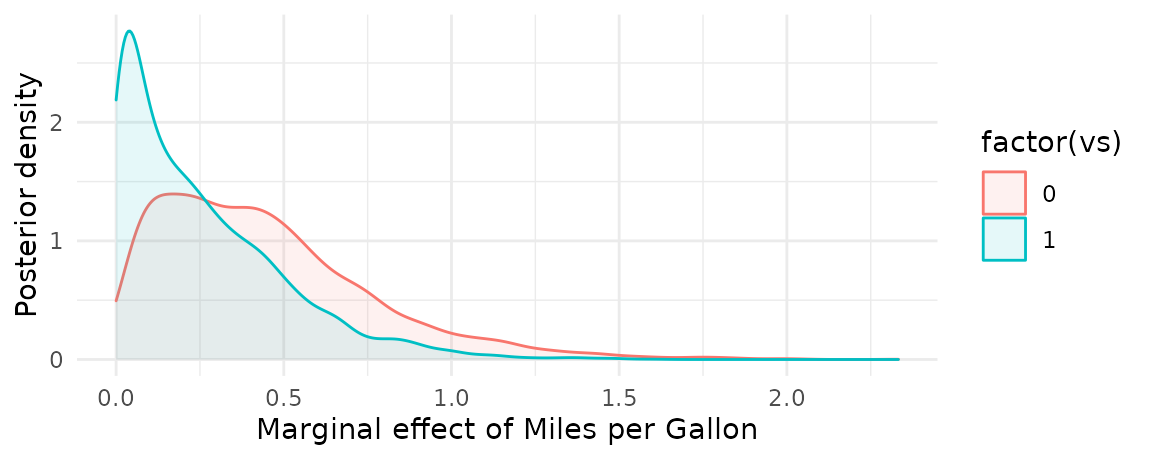
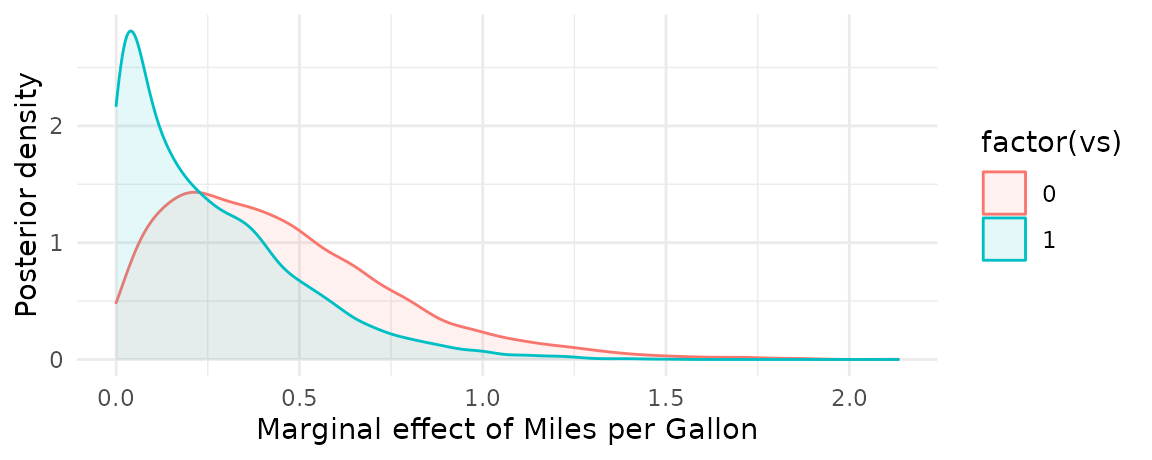
Built site for marginaleffects: 0.2.0@227eddc

diff --git a/articles/brms.html b/articles/brms.html
@@ -102,9 +102,9 @@
 <span class="fu"><a href="https://rdrr.io/r/base/summary.html">summary</a></span><span class="op">(</span><span class="va">mfx</span><span class="op">)</span>
 <span class="co">#&gt; Average marginal effects </span>
 <span class="co">#&gt;       type Term    Effect</span>
-<span class="co">#&gt; 1 response   hp  0.009225</span>
-<span class="co">#&gt; 2 response  mpg  0.196360</span>
-<span class="co">#&gt; 3 response   vs -0.136312</span>
+<span class="co">#&gt; 1 response   hp  0.009125</span>
+<span class="co">#&gt; 2 response  mpg  0.192785</span>
+<span class="co">#&gt; 3 response   vs -0.133986</span>
 <span class="co">#&gt; </span>
 <span class="co">#&gt; Model type:  brmsfit </span>
 <span class="co">#&gt; Prediction type:  response</span></code></pre></div>
@@ -112,19 +112,19 @@
 <div class="sourceCode" id="cb5"><pre class="downlit sourceCode r">
 <code class="sourceCode R"><span class="fu"><a href="../reference/marginaleffects.html">marginaleffects</a></span><span class="op">(</span><span class="va">mod</span>, newdata <span class="op">=</span> <span class="fu"><a href="../reference/typical.html">typical</a></span><span class="op">(</span>hp <span class="op">=</span> <span class="fu"><a href="https://rdrr.io/r/base/c.html">c</a></span><span class="op">(</span><span class="fl">110</span>, <span class="fl">130</span><span class="op">)</span><span class="op">)</span><span class="op">)</span>
 <span class="co">#&gt;   rowid     type term         dydx      conf.low  conf.high      mpg     vs  hp</span>
-<span class="co">#&gt; 1     1 response   hp  0.005204473  1.259520e-06 0.01672067 20.09062 0.4375 110</span>
-<span class="co">#&gt; 2     2 response   hp  0.029294532  9.118496e-04 0.06118583 20.09062 0.4375 130</span>
-<span class="co">#&gt; 3     1 response  mpg  0.128558864  2.776134e-05 0.42924493 20.09062 0.4375 110</span>
-<span class="co">#&gt; 4     2 response  mpg  0.679874606  4.953109e-02 1.36425386 20.09062 0.4375 130</span>
-<span class="co">#&gt; 5     1 response   vs -0.056686607 -4.867765e-01 0.24646229 20.09062 0.4375 110</span>
-<span class="co">#&gt; 6     2 response   vs -0.039588895 -1.001689e+00 1.02658699 20.09062 0.4375 130</span>
+<span class="co">#&gt; 1     1 response   hp  0.005295315  1.945335e-08 0.01596423 20.09062 0.4375 110</span>
+<span class="co">#&gt; 2     2 response   hp  0.028911995  7.582197e-04 0.05804486 20.09062 0.4375 130</span>
+<span class="co">#&gt; 3     1 response  mpg  0.128929237  4.428537e-07 0.39480654 20.09062 0.4375 110</span>
+<span class="co">#&gt; 4     2 response  mpg  0.668791556  9.939093e-02 1.34975476 20.09062 0.4375 130</span>
+<span class="co">#&gt; 5     1 response   vs -0.052210384 -4.872032e-01 0.21258043 20.09062 0.4375 110</span>
+<span class="co">#&gt; 6     2 response   vs -0.041725545 -9.578870e-01 0.94252857 20.09062 0.4375 130</span>
 <span class="co">#&gt;    predicted</span>
-<span class="co">#&gt; 1 0.06280545</span>
-<span class="co">#&gt; 2 0.36892357</span>
-<span class="co">#&gt; 3 0.06280545</span>
-<span class="co">#&gt; 4 0.36892357</span>
-<span class="co">#&gt; 5 0.06280545</span>
-<span class="co">#&gt; 6 0.36892357</span></code></pre></div>
+<span class="co">#&gt; 1 0.06111292</span>
+<span class="co">#&gt; 2 0.37177634</span>
+<span class="co">#&gt; 3 0.06111292</span>
+<span class="co">#&gt; 4 0.37177634</span>
+<span class="co">#&gt; 5 0.06111292</span>
+<span class="co">#&gt; 6 0.37177634</span></code></pre></div>
 <p>The <code>get_posterior_draws</code> produces a dataset with <code>drawid</code> and <code>draw</code> columns.</p>
 <div class="sourceCode" id="cb6"><pre class="downlit sourceCode r">
 <code class="sourceCode R"><span class="va">draws</span> <span class="op">&lt;-</span> <span class="fu"><a href="../reference/get_posterior_draws.html">get_posterior_draws</a></span><span class="op">(</span><span class="va">mfx</span><span class="op">)</span>
@@ -133,20 +133,20 @@
 <span class="co">#&gt; [1] 384000     13</span>
 
 <span class="fu"><a href="https://rdrr.io/r/utils/head.html">head</a></span><span class="op">(</span><span class="va">draws</span><span class="op">)</span>
-<span class="co">#&gt;   drawid        draw rowid     type term         dydx     conf.low   conf.high</span>
-<span class="co">#&gt; 1      1 0.678595923     1 response   hp 0.0270979099 1.386966e-04 0.061845494</span>
-<span class="co">#&gt; 2      1 0.678595923     2 response   hp 0.0270979099 1.386966e-04 0.061845494</span>
-<span class="co">#&gt; 3      1 0.177608322     3 response   hp 0.0319025293 3.390946e-03 0.064750649</span>
-<span class="co">#&gt; 4      1 0.198622932     4 response   hp 0.0284811002 8.391530e-05 0.063096938</span>
-<span class="co">#&gt; 5      1 1.047193179     5 response   hp 0.0307189927 3.493333e-03 0.063390455</span>
-<span class="co">#&gt; 6      1 0.001167116     6 response   hp 0.0003391638 6.446446e-14 0.001831232</span>
+<span class="co">#&gt;   drawid         draw rowid     type term         dydx     conf.low   conf.high</span>
+<span class="co">#&gt; 1      1 0.4429014700     1 response   hp 0.0263636384 1.907353e-04 0.058260873</span>
+<span class="co">#&gt; 2      1 0.4429014700     2 response   hp 0.0263636384 1.907353e-04 0.058260873</span>
+<span class="co">#&gt; 3      1 0.2564011269     3 response   hp 0.0316214243 3.842492e-03 0.064162636</span>
+<span class="co">#&gt; 4      1 0.1729365622     4 response   hp 0.0281437299 2.434475e-05 0.060452491</span>
+<span class="co">#&gt; 5      1 0.2737585098     5 response   hp 0.0303212139 4.558533e-03 0.060801420</span>
+<span class="co">#&gt; 6      1 0.0005083188     6 response   hp 0.0003467609 7.324717e-19 0.001871441</span>
 <span class="co">#&gt;   am  mpg vs  hp   predicted</span>
-<span class="co">#&gt; 1  1 21.0  0 110 0.599901008</span>
-<span class="co">#&gt; 2  1 21.0  0 110 0.599901008</span>
-<span class="co">#&gt; 3  1 22.8  1  93 0.469760371</span>
-<span class="co">#&gt; 4  0 21.4  1 110 0.340368613</span>
-<span class="co">#&gt; 5  0 18.7  0 175 0.519441910</span>
-<span class="co">#&gt; 6  0 18.1  1 105 0.004038933</span></code></pre></div>
+<span class="co">#&gt; 1  1 21.0  0 110 0.593641080</span>
+<span class="co">#&gt; 2  1 21.0  0 110 0.593641080</span>
+<span class="co">#&gt; 3  1 22.8  1  93 0.467551442</span>
+<span class="co">#&gt; 4  0 21.4  1 110 0.341999547</span>
+<span class="co">#&gt; 5  0 18.7  0 175 0.527301022</span>
+<span class="co">#&gt; 6  0 18.1  1 105 0.004218097</span></code></pre></div>
 <p>We can use this dataset to plot our results. For example, to plot the posterior density of the marginal effect when the <code>vs</code> variable is equal to 0 or 1:</p>
 <div class="sourceCode" id="cb7"><pre class="downlit sourceCode r">
 <code class="sourceCode R"><span class="fu"><a href="../reference/marginaleffects.html">marginaleffects</a></span><span class="op">(</span><span class="va">mod</span>, variables <span class="op">=</span> <span class="st">"mpg"</span>, newdata <span class="op">=</span> <span class="fu"><a href="../reference/typical.html">typical</a></span><span class="op">(</span>vs <span class="op">=</span> <span class="fl">0</span><span class="op">:</span><span class="fl">1</span><span class="op">)</span><span class="op">)</span> |&gt;

diff --git a/articles/mfx.html b/articles/mfx.html
@@ -259,11 +259,11 @@
     <span class="fu"><a href="https://dplyr.tidyverse.org/reference/mutate.html">mutate</a></span><span class="op">(</span>truth <span class="op">=</span> <span class="fl">1</span> <span class="op">+</span> <span class="fl">4</span> <span class="op">*</span> <span class="va">x</span><span class="op">)</span> <span class="op"><a href="https://magrittr.tidyverse.org/reference/pipe.html">%&gt;%</a></span>
     <span class="fu"><a href="https://dplyr.tidyverse.org/reference/select.html">select</a></span><span class="op">(</span><span class="va">dydx</span>, <span class="va">truth</span><span class="op">)</span>
 <span class="co">#&gt;         dydx truth</span>
-<span class="co">#&gt; 1 -6.9965940    -7</span>
-<span class="co">#&gt; 2 -3.0009288    -3</span>
-<span class="co">#&gt; 3  0.9947364     1</span>
-<span class="co">#&gt; 4  4.9904016     5</span>
-<span class="co">#&gt; 5  8.9860668     9</span></code></pre></div>
+<span class="co">#&gt; 1 -7.0023863    -7</span>
+<span class="co">#&gt; 2 -3.0016234    -3</span>
+<span class="co">#&gt; 3  0.9991395     1</span>
+<span class="co">#&gt; 4  4.9999024     5</span>
+<span class="co">#&gt; 5  9.0006653     9</span></code></pre></div>
 <p>We can also plot the result with the <code>plot_cme</code> function (see section below):</p>
 <div class="sourceCode" id="cb12"><pre class="downlit sourceCode r">
 <code class="sourceCode R"><span class="fu"><a href="../reference/plot_cme.html">plot_cme</a></span><span class="op">(</span><span class="va">mod</span>, effect <span class="op">=</span> <span class="st">"x"</span>, condition <span class="op">=</span> <span class="st">"x"</span><span class="op">)</span></code></pre></div>
